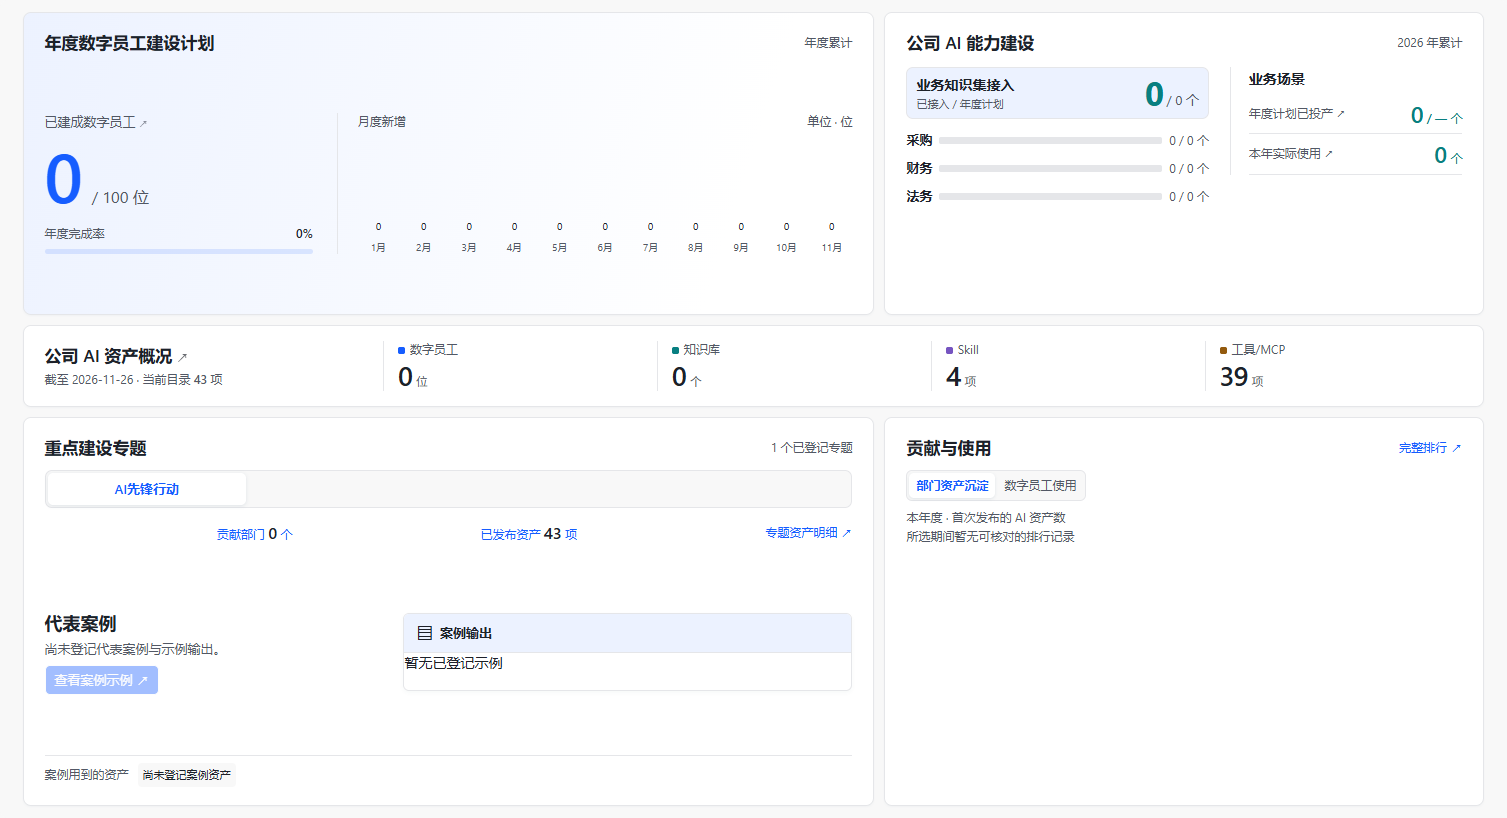
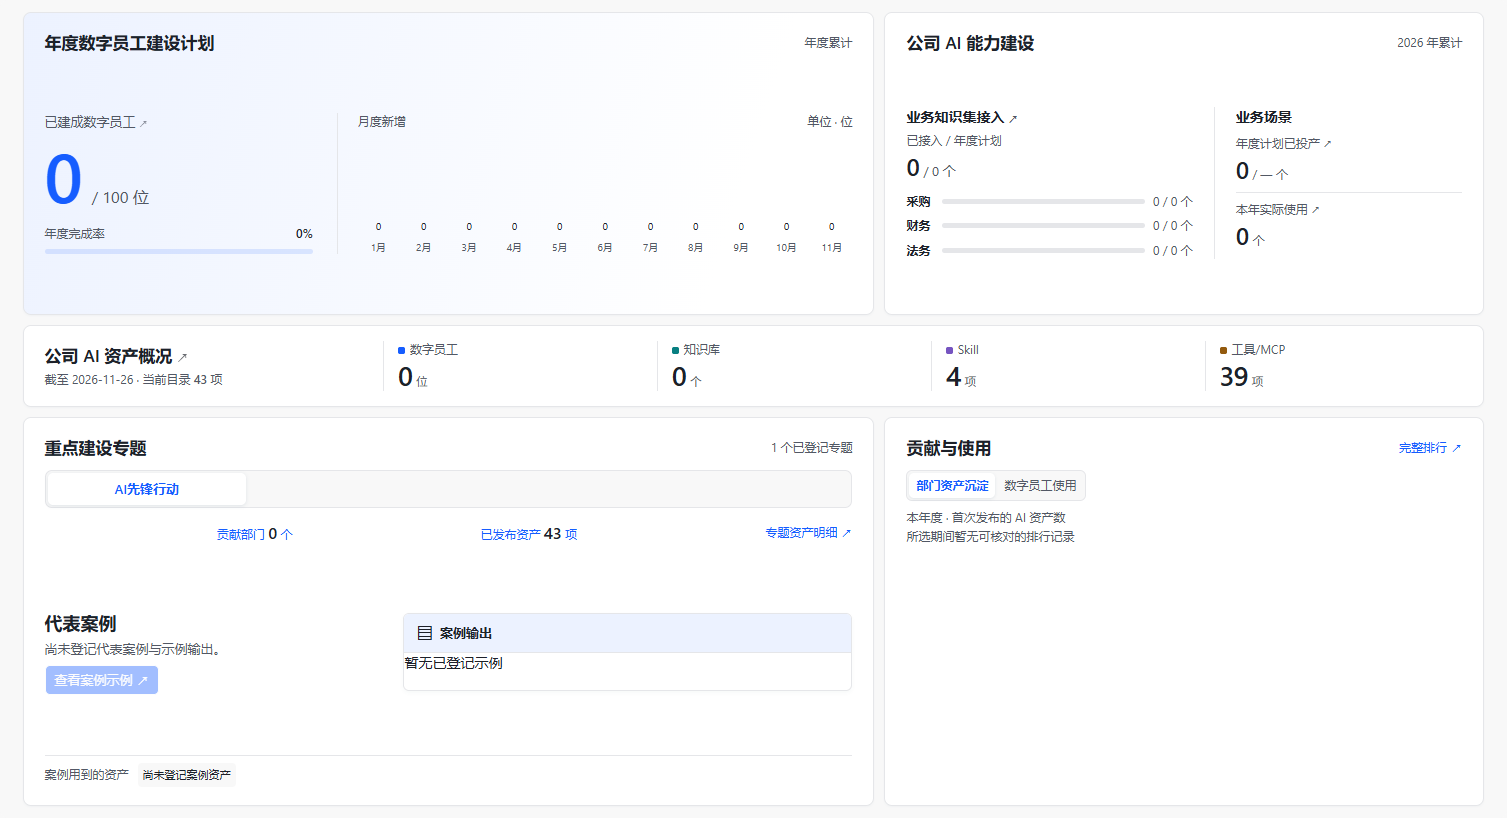
fix(board): 领导可在战略页并排查看知识接入与业务场景进展
解决的问题
能力建设卡左栏的单独底色与右栏的列表样式不统一，两组指标都挤在标题下方。

改动方法
两栏标题对齐，统一指标数字和单位层级。让正文在剩余高度中居中，窄屏时按列顺序纵向阅读。效果见 features/v3.0.2/122-company-boards/screenshots/parity/strategy-capacity-local.png。

验证结果
本地 3001 端口完成前端构建和验收。1707×898 下指标区上、下留白为 51 和 56 像素。在宽屏、窄屏及深色下检查了卡片并逐项打开知识清单、场景建设台账及场景应用明细，均可返回。

diff --git a/src/frontend/platform/src/pages/CompanyBoards/prototype/StrategyFrame.css b/src/frontend/platform/src/pages/CompanyBoards/prototype/StrategyFrame.css
@@ -120,32 +120,87 @@ dl dd:last-child { margin-bottom: 0px; }
 .hero .goal-label::after,.goals .goal .goal-name::after,.inv-title .card-title::after{content:" ↗";font-size:.77em;opacity:.65;font-weight:500}.v4-drill-target:hover,.v4-drill-target:focus-visible{filter:brightness(.96)}.asset-row.v4-drill-target:hover,.asset-row.v4-drill-target:focus-visible{background:var(--al-soft)}
 
 .v4-drill-target{cursor:pointer}.v4-drill-target:focus-visible{outline:2px solid var(--al-blue);outline-offset:3px;border-radius:3px}.v4-drill-target:hover{text-decoration:underline;text-underline-offset:3px}
-.goals .knowledge-body{display:flex;flex-direction:column;justify-content:space-between;gap:12px;min-width:0}
-.goals .knowledge-body .board-head{margin:0;align-items:center}.knowledge-body .period{white-space:nowrap}
-.knowledge-summary{display:flex;align-items:center;justify-content:space-between;gap:12px;padding:9px 14px;background:var(--al-soft);border:1px solid var(--al-line);border-radius:7px;color:var(--al-ink)}
-.knowledge-label{font-size:14px;font-weight:600}.knowledge-total,.knowledge-number{font-variant-numeric:tabular-nums;white-space:nowrap}
-.knowledge-total{font-size:13px;color:var(--al-muted)}.knowledge-total b{color:var(--al-teal);font-size:clamp(24px,2.2cqw,34px);font-weight:650;line-height:1;letter-spacing:-.035em;vertical-align:-1px}
-.knowledge-details{display:grid;gap:9px;margin:0;padding:0}.knowledge-row{display:grid;grid-template-columns:auto minmax(0,1fr);align-items:center;gap:15px}
-.knowledge-row dt,.knowledge-row dd{margin:0}.knowledge-row dt{font-size:13px;color:var(--al-ink);font-weight:550}.knowledge-row dd{display:grid;grid-template-columns:minmax(0,1fr) 78px;gap:12px;align-items:center}
-.knowledge-number{text-align:right;color:var(--al-muted);font-size:12px}.knowledge-number b{color:var(--al-ink);font-size:15px;font-weight:600}
-.knowledge-segments{display:flex;height:7px;gap:2px;overflow:hidden;border-radius:2px}.knowledge-segments i{flex:1;min-width:0;background:var(--al-line)}.knowledge-segments .connected{background:var(--al-teal)}
-@container board-content (min-width:851px) and (max-height:800px){.goals .knowledge-body{gap:7px}.knowledge-summary{padding-block:6px}.knowledge-details{gap:5px}}
-@container board-content (max-width:550px){.goals .knowledge-body{gap:14px}.knowledge-row{gap:10px}.knowledge-row dd{grid-template-columns:minmax(0,1fr) 65px;gap:8px}.knowledge-summary{padding:9px 11px}}
-  .goals .knowledge-body{justify-content:flex-start}
-  .capacity-grid{display:grid;grid-template-columns:minmax(0,1.3fr) minmax(0,1fr);gap:clamp(10px,1.4cqw,22px);align-items:start}
-  .capacity-grid .knowledge-summary{padding:7px 9px;gap:4px;flex-wrap:wrap}
-  .stock .num{white-space:nowrap}.stock .stock-unit{font-size:12px;font-weight:400;color:var(--al-muted);letter-spacing:0;margin-inline-start:4px}
-  .knowledge-label small{display:block;margin-top:2px;font-size:11px;line-height:1.25;font-weight:400;color:var(--al-muted)}
-  .capacity-grid .knowledge-details{margin-top:12px}
-  .capacity-grid .knowledge-row,.capacity-grid .knowledge-row dd{gap:7px}
-  .capacity-grid .knowledge-row dd{grid-template-columns:minmax(14px,1fr) auto}
-  .capacity-scenes{border-left:1px solid var(--al-line);padding-left:clamp(9px,1.2cqw,18px)}
-  .capacity-scenes h3{font-size:14px;color:var(--al-ink);margin:0 0 3px}
-  .capacity-scene-link{display:flex;align-items:center;justify-content:space-between;gap:3px 8px;flex-wrap:wrap;width:100%;text-align:left;border:0;border-bottom:1px solid var(--al-line);background:transparent;padding:7px 0;color:var(--al-muted);font:inherit}
-  .capacity-scene-link span,.capacity-scene-link small{font-size:12px}
-  .capacity-scene-link strong{font-size:23px;color:var(--al-teal);line-height:1.1;font-variant-numeric:tabular-nums}
-  .capacity-scene-link small{font-weight:500}.capacity-scene-link:hover span{text-decoration:underline}
-  @container board-content (max-width:480px){.capacity-grid{grid-template-columns:1fr}.capacity-scenes{border:0;padding:0}}
+.stock .num{white-space:nowrap}.stock .stock-unit{font-size:12px;font-weight:400;color:var(--al-muted);letter-spacing:0;margin-inline-start:4px}
+.goals .knowledge-body {
+  display: flex;
+  flex-direction: column;
+  height: 100%;
+  gap: 14px;
+}
+.goals .knowledge-body .board-head { margin: 0; }
+.knowledge-body .period { white-space: nowrap; }
+
+.capacity-grid {
+  display: grid;
+  grid-template-columns: minmax(0, 1.15fr) minmax(0, 1fr);
+  gap: clamp(12px, 1.4cqw, 24px);
+  flex: 1;
+  align-content: center;
+}
+.capacity-scenes {
+  border-inline-start: 1px solid var(--al-line);
+  padding-inline-start: clamp(12px, 1.4cqw, 24px);
+}
+.knowledge-label, .capacity-scenes h3 {
+  display: block;
+  margin: 0;
+  color: var(--al-ink);
+  font-size: 14px;
+  font-weight: 600;
+  line-height: 20px;
+}
+.knowledge-label::after { content: " ↗"; font-size: 11px; color: var(--al-muted); }
+.knowledge-summary { display: grid; gap: 4px; }
+.knowledge-summary:hover { text-decoration: none; }
+.knowledge-summary:hover .knowledge-label, .capacity-scene-link:hover span { color: var(--al-blue); }
+.knowledge-summary small, .knowledge-number, .capacity-scene-link span, .capacity-scene-link small {
+  font-size: 12px;
+  font-weight: 400;
+  color: var(--al-muted);
+}
+.knowledge-total, .capacity-scene-link strong {
+  color: var(--al-muted);
+  font-size: 13px;
+  white-space: nowrap;
+  font-variant-numeric: tabular-nums;
+}
+.knowledge-total b, .capacity-scene-link b {
+  color: var(--al-ink);
+  font-size: clamp(20px, 1.6cqw, 28px);
+  font-weight: 600;
+  line-height: 1.15;
+}
+.knowledge-details { display: grid; gap: 7px; margin: 12px 0 0; }
+.knowledge-row, .knowledge-row dd {
+  display: grid;
+  align-items: center;
+  gap: 8px;
+  margin: 0;
+}
+.knowledge-row { grid-template-columns: minmax(2em, auto) minmax(0, 1fr); }
+.knowledge-row dt { font-size: 12px; color: var(--al-ink); overflow-wrap: anywhere; }
+.knowledge-row dd { grid-template-columns: minmax(12px, 1fr) auto; }
+.knowledge-number { white-space: nowrap; }
+.knowledge-segments { display: flex; height: 5px; gap: 2px; overflow: hidden; border-radius: 4px; }
+.knowledge-segments i { flex: 1; background: var(--al-line); }
+.knowledge-segments .connected { background: var(--al-teal); }
+.capacity-scene-link {
+  display: grid;
+  justify-items: start;
+  gap: 4px;
+  width: 100%;
+  padding: 8px 0;
+  text-align: start;
+  border: 0;
+  background: transparent;
+  cursor: pointer;
+}
+.capacity-scene-link + .capacity-scene-link { border-top: 1px solid var(--al-line); }
+.capacity-scene-link:last-child { padding-bottom: 0; }
+@container board-content (max-width: 480px) {
+  .capacity-grid { grid-template-columns: 1fr; }
+  .capacity-scenes { padding: 12px 0 0; border: 0; border-top: 1px solid var(--al-line); }
+}
 
 :host { --tblr-body-font-family:inherit; --tblr-card-bg:var(--al-paper); --tblr-border-color:var(--al-line); }
 .card { color:var(--al-ink); background:var(--al-paper); border-color:var(--al-line); border-radius:var(--radius); }
@@ -159,7 +214,7 @@ dl dd:last-child { margin-bottom: 0px; }
 .hero .bar-col i { background:rgb(var(--brand-300)); }
 .text-btn,.goal .goal-name,.topic-btn.active { color:var(--al-blue); }
 .stock .num,.rankline .rankval { color:var(--al-ink); }
-.demo,.sample-head,.knowledge-summary { background:var(--al-soft); color:var(--al-ink); }
+.demo,.sample-head { background:var(--al-soft); color:var(--al-ink); }
 button:focus-visible,a:focus-visible { outline:2px solid var(--al-blue); outline-offset:2px; }
 @media (prefers-reduced-motion:reduce) { *,*::before,*::after { transition-duration:0s !important; animation-duration:0s !important; } }
 .shell { padding-block-start: clamp(10px, 1.5cqh, 20px); }

diff --git a/src/frontend/platform/src/pages/CompanyBoards/prototype/Strategy.tsx b/src/frontend/platform/src/pages/CompanyBoards/prototype/Strategy.tsx
@@ -163,8 +163,9 @@ export default function Strategy({ data, period, open, registers, board }: Proto
                           go={() => detail("knowledge", "年度重点知识接入清单")}
                         >
                           <strong className="knowledge-label" id="knowledge-summary">
-                            业务知识集接入<small>已接入 / 年度计划</small>
+                            业务知识集接入
                           </strong>
+                          <small>已接入 / 年度计划</small>
                           <span className="knowledge-total">
                             <b>{stats.knowledge_verified}</b> / {stats.knowledge_planned} 个
                           </span>
@@ -232,7 +233,7 @@ export default function Strategy({ data, period, open, registers, board }: Proto
                           >
                             <span>{name} ↗</span>
                             <strong>
-                              {n}
+                              <b>{n}</b>
                               <small>{unit}</small>
                             </strong>
                           </button>
